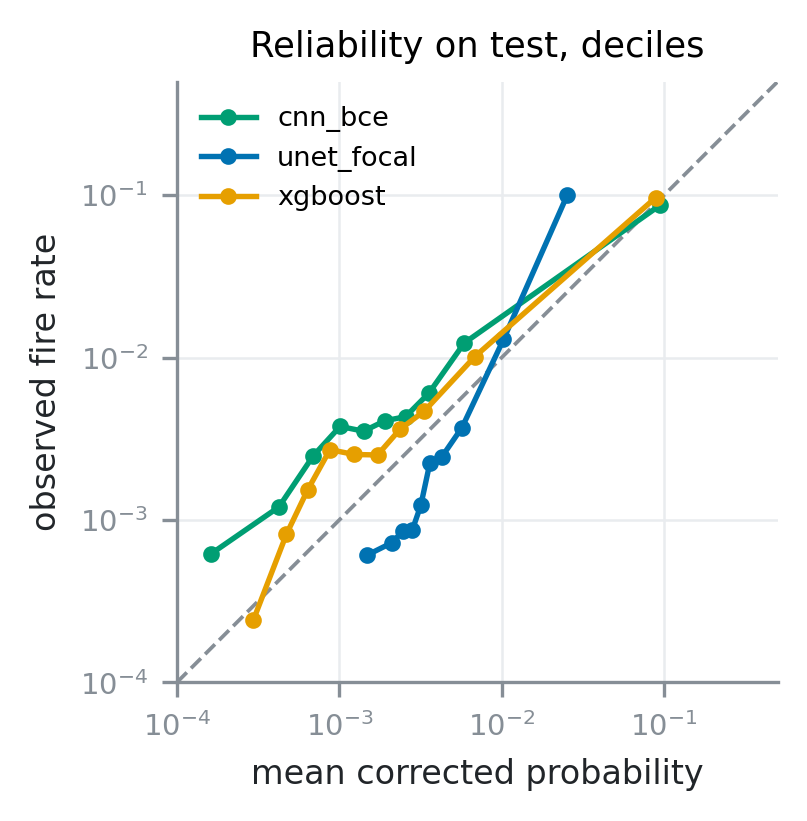
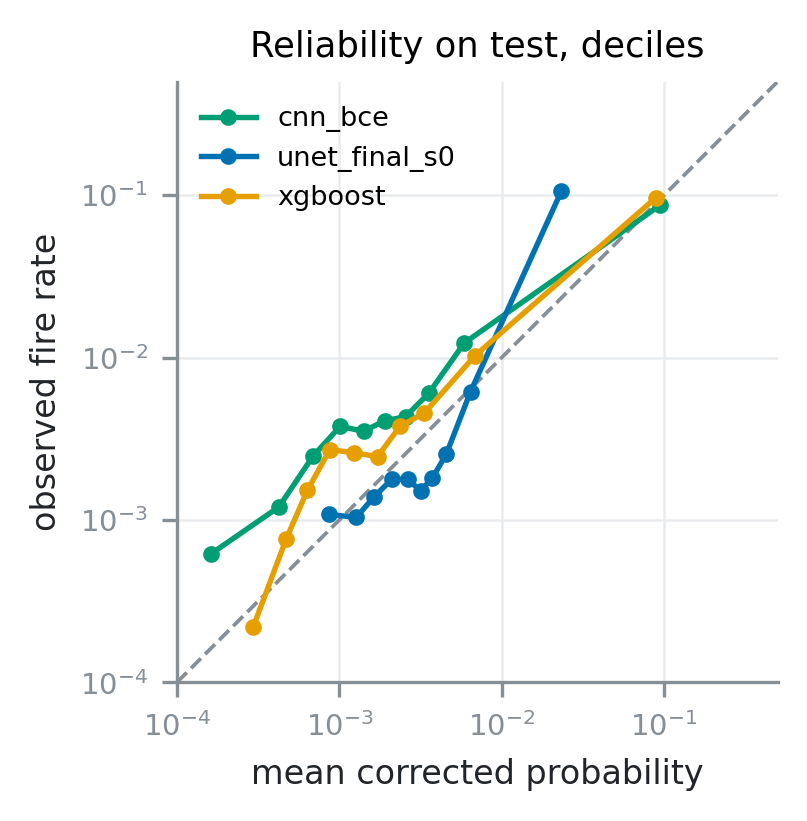
rerun the technical validation on the final depth-4 U-Net
The checks now use the final model (unet_final_s0..s2: 4 levels, width 32, focal loss):
- seeds: 0.344 +/- 0.007 test PR AUC against 0.255 +/- 0.002 for XGBoost
- paired over fire events, every seed beats XGBoost by 0.080 to 0.094, in all 1,000 resamples
- calibration: the focal U-Net is still too flat after the prior-shift correction (skill 0.05)
- location overlap: 0.335 on new locations against 0.338 overall; +0.092 over XGBoost there

dl_checks.py reads results_dl.csv as well as runs.csv and accepts _s0/_s1/_s2 seed names. The reruns and
the learning curve were not re-measured and stay on the 3-level U-Net, as the text now says. The abstract,
introduction and conclusion quoted the 3-level numbers; they now quote the final model.

diff --git a/paper/sections/dl_validation.tex b/paper/sections/dl_validation.tex
@@ -1,23 +1,25 @@
 % Technical validation of the Phase 2 models
 % Numbers come from reports/dl/checks/*.csv (python reports/dl/checks/dl_checks.py validate);
-% the runs and checks were made on one NVIDIA T4 GPU (Kaggle).
+% the final U-Net was trained on an Apple M3 GPU, the other runs and all checks on Kaggle (T4 GPU / CPU).
 
 \section{Technical Validation}
 \label{sec:dl_validation}
 
 A single test score can mislead in five ways: another seed may give a different model, the test fires may
 by chance favour one model, the probabilities may not mean what they say, the model may need more data, and
-test patches may repeat training locations. We check each of these for the final U-Net (focal loss), the CNN
-(weighted BCE) and the Phase~1 XGBoost, refitted with its committed hyperparameters to obtain its test
-predictions (PR AUC 0.2576 against the committed 0.2565, Appendix~\ref{app:checks}). All PR AUC values are on
-the official test split, with pixels labelled $-1$ excluded.
+test patches may repeat training locations. We check each of these for the final U-Net (4 levels, width 32,
+focal loss, 1.93\,M parameters, trained on an Apple M3 GPU), the CNN (weighted BCE, trained on an NVIDIA T4)
+and the Phase~1 XGBoost, refitted with its committed hyperparameters to obtain its test predictions (PR AUC
+0.2576 against the committed 0.2565, Appendix~\ref{app:checks}). All PR AUC values are on the official test
+split, with pixels labelled $-1$ excluded.
 
 \subsection{Seeds}
 
 Each model was trained with seeds 0, 1 and 2 (for XGBoost the seed sets row and column subsampling).
-Table~\ref{tab:dl_seeds} gives the mean and standard deviation. The U-Net is ahead on every metric. The two
-neural networks vary four to five times more between seeds than XGBoost (standard deviation 0.008 to 0.010
-in PR AUC against 0.002), so a single run of a network can be off by about 0.01.
+Table~\ref{tab:dl_seeds} gives the mean and standard deviation. The U-Net is ahead on every metric, by
+0.089 in PR AUC over XGBoost. The two neural networks vary three to five times more between seeds than
+XGBoost (standard deviation 0.007 to 0.010 in PR AUC against 0.002), so a single run of a network can be
+off by about 0.01.
 
 \begin{table*}[t]
 \centering
@@ -32,7 +34,7 @@ in PR AUC against 0.002), so a single run of a network can be off by about 0.01.
 \textbf{Model} & \textbf{PR AUC} & \textbf{ROC AUC} & \textbf{F1} & \textbf{R@1\%} & \textbf{R@5\%} \\
 \midrule
 \rowcolor{tblours}
-U-Net (focal) & \textbf{0.275} $\pm$ .008 & \textbf{0.923} $\pm$ .003 & \textbf{0.349} $\pm$ .006 & \textbf{0.398} $\pm$ .004 & \textbf{0.711} $\pm$ .005 \\
+U-Net (depth 4, focal) & \textbf{0.344} $\pm$ .007 & \textbf{0.935} $\pm$ .009 & \textbf{0.399} $\pm$ .003 & \textbf{0.459} $\pm$ .003 & \textbf{0.783} $\pm$ .007 \\
 CNN (BCE) & 0.249 $\pm$ .010 & 0.878 $\pm$ .011 & 0.335 $\pm$ .008 & 0.378 $\pm$ .009 & 0.653 $\pm$ .006 \\
 XGBoost & 0.255 $\pm$ .002 & 0.905 $\pm$ .001 & 0.330 $\pm$ .000 & 0.388 $\pm$ .001 & 0.673 $\pm$ .001 \\
 \bottomrule
@@ -41,7 +43,8 @@ XGBoost & 0.255 $\pm$ .002 & 0.905 $\pm$ .001 & 0.330 $\pm$ .000 & 0.388 $\pm$ .
 
 \subsection{Reproducibility}
 
-We retrained the seed-0 U-Nets and CNN a second time with the same seed, settings and GPU. No rerun
+We retrained the seed-0 U-Nets of the loss sweep (3 levels) and the CNN a second time with the same seed,
+settings and GPU. No rerun
 reproduced its predictions: the mean change per pixel was 0.03 to 0.07, the kept epoch moved by up to four
 epochs, and test PR AUC changed by $-0.022$ to $+0.013$. GPU kernels that add numbers in a varying order make
 training non-deterministic, so on a GPU the same seed does not give the same model, and here the spread of
@@ -49,15 +52,17 @@ reruns is as large as the spread of seeds. Such run-to-run variance can be as la
 methods being compared~\cite{bouthillier2021}. We therefore report means over seeds and paired
 comparisons rather than single runs. Across hardware, the same configuration agrees within this noise: the
 BCE U-Net reaches 0.269 $\pm$ 0.010 on the T4 against 0.269 for the reference run on an Apple GPU. Bit-exact
-reruns would need deterministic algorithms in PyTorch, at a cost in speed.
+reruns would need deterministic algorithms in PyTorch, at a cost in speed. All of this noise is small
+next to the gap between the final U-Net and XGBoost below.
 
 \subsection{Bootstrap confidence intervals}
 
 As in Phase~1 (Appendix~\ref{app:checks}), we resample the test set 1\,000 times~\cite{efron1979}, either by
 patch or by whole fire event (the 257 events of Section~\ref{sec:events}), and recompute PR AUC each time.
 Table~\ref{tab:dl_ci} and Fig.~\ref{fig:dl_ci} give the intervals for the seed-0 models. As in Phase~1, the
-event intervals are wide (about $\pm$0.06), because a few large fires hold most of the fire pixels, and
-those of the three models overlap.
+event intervals are wide (about $\pm$0.05 for the U-Net), because a few large fires hold most of the fire
+pixels. Even so, the U-Net's interval starts at 0.293, above the point estimates of XGBoost (0.258) and of
+the CNN autoencoder of Huot et al.\ (0.284).
 
 \begin{table}[t]
 \centering
@@ -71,9 +76,9 @@ those of the three models overlap.
 \textbf{Model} & \textbf{PR AUC} & \textbf{Patches} & \textbf{Events} \\
 \midrule
 \rowcolor{tblours}
-U-Net (focal) & 0.2694 & 0.253-0.286 & 0.211-0.329 \\
+U-Net (final) & 0.3376 & 0.321-0.355 & 0.293-0.385 \\
 CNN (BCE) & 0.2591 & 0.241-0.277 & 0.180-0.333 \\
-XGBoost & 0.2576 & 0.242-0.273 & 0.190-0.323 \\
+XGBoost & 0.2576 & 0.242-0.273 & 0.190-0.322 \\
 Persistence & 0.1065 & 0.097-0.117 & 0.059-0.161 \\
 \bottomrule
 \end{tabular}
@@ -87,13 +92,14 @@ Persistence & 0.1065 & 0.097-0.117 & 0.059-0.161 \\
 \end{figure}
 
 Paired intervals are much narrower, because both models are scored on the same resampled fires. Compared
-with XGBoost (seed 0) on the same event resamples, every U-Net seed is better: by 0.012 (0.001 to 0.025)
-for seed 0, 0.014 (0.002 to 0.028) for seed 1 and 0.027 (0.015 to 0.039) for seed 2. The CNN is not: its
-differences are $+0.001$ ($-0.011$ to 0.013), $-0.009$ ($-0.022$ to 0.005) and $-0.018$ ($-0.030$ to
-$-0.008$). The gain comes with the U-Net's architecture rather than with the loss or with neural networks as
-such: trained with the same BCE loss, the U-Net still reaches 0.269 $\pm$ 0.010 against 0.249 $\pm$ 0.010
-for the CNN. The U-Net sees a $44\times44$-pixel window around each pixel, the CNN only $9\times9$, which is
-about the local context of the Phase~1 neighbourhood features, and the CNN scores about the same as XGBoost.
+with XGBoost (seed 0) on the same event resamples, every U-Net seed is better, in all 1\,000 resamples: by
+0.080 (0.058 to 0.113) for seed 0, 0.085 (0.059 to 0.122) for seed 1 and 0.094 (0.078 to 0.118) for seed 2.
+The CNN is not: its differences are $+0.001$ ($-0.011$ to 0.013), $-0.009$ ($-0.022$ to 0.005) and $-0.018$
+($-0.030$ to $-0.008$). The gain grows with the context the network sees: the CNN's receptive field is
+$9\times9$ pixels, about the reach of the Phase~1 neighbourhood features, and it scores like XGBoost (0.249);
+the 3-level U-Net of the loss sweep sees $44\times44$ pixels (0.275 with focal loss on the T4, 0.269 with BCE, so the
+loss is not the cause); the final 4-level U-Net sees 92 to 100 pixels across, depending on the pixel's position,
+so every pixel sees the whole $64\times64$ patch, and it reaches 0.344.
 
 \subsection{Calibration}
 
@@ -116,9 +122,9 @@ the training fire rate (1.10\%).
 \rowcolor{tblhead}
 \textbf{Model} & \textbf{Raw} & \textbf{Corrected} & \textbf{BSS} & \textbf{ECE} & \textbf{Mean $p$} \\
 \midrule
-U-Net (focal) & 0.1067 & 0.0119 & 0.043 & 0.0090 & 0.0061 \\
+U-Net (final) & 0.0799 & 0.0117 & 0.052 & 0.0091 & 0.0050 \\
 CNN (BCE) & 0.0807 & 0.0104 & 0.159 & 0.0029 & 0.0113 \\
-XGBoost & 0.0856 & 0.0104 & 0.159 & 0.0019 & 0.0107 \\
+XGBoost & 0.0857 & 0.0104 & 0.159 & 0.0019 & 0.0107 \\
 \midrule
 \multicolumn{6}{l}{Always 1.10\%: Brier 0.0124; observed fire rate on test 0.0125.} \\
 \bottomrule
@@ -133,19 +139,20 @@ in each tenth of the pixels (log scales).}
 \label{fig:dl_cal}
 \end{figure}
 
-The raw scores are badly calibrated for every model, with a Brier score six to nine times worse than the
+The raw scores are badly calibrated for every model, with a Brier score six to seven times worse than the
 constant forecast. The correction fixes this for the two models trained with weighted BCE: the CNN and
 XGBoost reach a skill score of 0.16, and their top tenth of pixels predicts 9.5\% and 8.9\% fire against
 8.7\% and 9.7\% observed (Fig.~\ref{fig:dl_cal}). Focal loss breaks the correction, because its scores are
 less extreme (Section~\ref{sec:dl_loss}; see also~\cite{mukhoti2020}). After the correction, the U-Net's
-probabilities are too flat: 0.15\% in the lowest tenth against 0.06\% observed, and 2.5\% in the top tenth
-against 10.0\% observed, for a skill score of only 0.04. Its ranking, and so its PR AUC, is unaffected. If
+probabilities are too flat: close in the lowest tenth (0.09\% against 0.11\% observed), but 2.3\% in the top
+tenth against 10.6\% observed, for a skill score of only 0.05. Its ranking, and so its PR AUC, is unaffected. If
 the U-Net's probabilities are to be read as fire risk, they need a recalibration fitted on eval, such as
 Platt scaling.
 
 \subsection{Learning curve}
 
-We trained the focal U-Net (seed 0) on 5, 10, 25 and 50\% of the training patches. Each run had the same
+We trained the 3-level focal U-Net of the loss sweep (seed 0) on 5, 10, 25 and 50\% of the training patches;
+the final 4-level model was not re-measured. Each run had the same
 budget of gradient steps and the same patience in steps as the full run (at most $30/f$ epochs, patience
 $5/f$, for a share $f$). Unlike XGBoost, whose eval PR AUC stays between 0.204 and 0.207 from 5 to 100\% of
 the data (Section~\ref{sec:theory_bv}), the U-Net uses more data (Fig.~\ref{fig:dl_lc}): its eval PR AUC
@@ -157,8 +164,8 @@ more data of the same kind adds little.
 \begin{figure}[t]
 \centering
 \includegraphics[width=0.75\columnwidth]{dl/figures/dl_learning_curve.png}
-\caption{Eval PR AUC against the share of training patches: focal U-Net (one run per share) and the Phase~1
-XGBoost.}
+\caption{Eval PR AUC against the share of training patches: 3-level focal U-Net (one run per share) and the
+Phase~1 XGBoost.}
 \label{fig:dl_lc}
 \end{figure}
 
@@ -166,9 +173,11 @@ XGBoost.}
 
 503 of the 1\,689 test patches (30\%) cover exactly the same location as a training patch
 (Section~\ref{sec:method}). Scored separately (Table~\ref{tab:dl_overlap}), these seen locations are easier
-for every model, persistence included. On the 1\,186 new locations alone, the U-Net still beats XGBoost by
-0.013 (0.004 to 0.026, paired over fire events), while the CNN and XGBoost remain level ($+0.001$, from
-$-0.014$ to 0.013). The U-Net's lead is therefore not a product of locations it has seen before.
+for every model, persistence included, but the U-Net depends on them least: it scores 0.335 on new
+locations against 0.338 overall, while XGBoost drops from 0.258 to 0.243. On the 1\,186 new locations
+alone, the U-Net beats XGBoost by 0.092 (0.074 to 0.123, paired over fire events), while the CNN and XGBoost
+remain level ($+0.000$, from $-0.014$ to 0.013). The U-Net's lead is therefore not a product of locations it
+has seen before.
 
 \begin{table}[t]
 \centering
@@ -182,18 +191,20 @@ $-0.014$ to 0.013). The U-Net's lead is therefore not a product of locations it 
 \textbf{Model} & \textbf{All (1\,689)} & \textbf{New (1\,186)} & \textbf{Seen (503)} \\
 \midrule
 \rowcolor{tblours}
-U-Net (focal) & 0.269 & 0.255 & 0.335 \\
+U-Net (final) & 0.338 & 0.335 & 0.353 \\
 CNN (BCE) & 0.259 & 0.243 & 0.330 \\
-XGBoost & 0.258 & 0.242 & 0.324 \\
+XGBoost & 0.258 & 0.243 & 0.323 \\
 Persistence & 0.107 & 0.097 & 0.151 \\
 \bottomrule
 \end{tabular}
 \end{table}
 
 \begin{projectbox}
-What the checks support: the U-Net with focal loss is the best model. Its lead over XGBoost, 0.01 to 0.03 in
-PR AUC, holds for each of three seeds when both are scored on the same fires, and for seed 0 also on
-unseen locations. The CNN is level with XGBoost. Network training on a GPU is not reproducible run by run, so
-results are means over seeds. After the closed-form correction, the probabilities of the weighted-BCE models
-are close to real risk; those of the focal U-Net need a recalibration before they are used as risk.
+What the checks support: the final 4-level U-Net with focal loss is the best model, at 0.344 $\pm$ 0.007.
+Its lead over XGBoost, 0.08 to 0.09 in PR AUC, holds for each of three seeds when both are scored on the same
+fires, in every resample, and for seed 0 also on unseen locations. The gain grows with the context the
+network sees, and the CNN, which sees only a local window, is level with XGBoost. Network training on a GPU
+is not reproducible run by run, so results are means over seeds. After the closed-form correction, the
+probabilities of the weighted-BCE models are close to real risk; those of the focal U-Net need a
+recalibration before they are used as risk.
 \end{projectbox}

diff --git a/reports/dl/checks/dl_checks.py b/reports/dl/checks/dl_checks.py
@@ -52,8 +52,10 @@ def load_pred(name):
 
 
 def results():
-    path = CHECKS / "runs.csv" if (CHECKS / "runs.csv").exists() else DL / "results_dl.csv"
-    return pd.read_csv(path).set_index("model")
+    """Test metrics of every run: runs.csv (my runs) plus results_dl.csv (all team runs)."""
+    tables = [pd.read_csv(f) for f in (CHECKS / "runs.csv", DL / "results_dl.csv") if f.exists()]
+    res = pd.concat(tables).drop_duplicates("model").set_index("model")
+    return res
 
 
 def read_log(path):
@@ -203,7 +205,9 @@ def plt_setup():
 
 
 def seed_names(base):
-    return [base, f"{base}_s1", f"{base}_s2"]
+    """Seeds 0, 1, 2 of a run: base, base_s1, base_s2, or for names ending in _s0: stem_s0, stem_s1, stem_s2."""
+    stem = base[:-3] if base.endswith("_s0") else base
+    return [base, f"{stem}_s1", f"{stem}_s2"]
 
 
 # ---------------------------------------------------------------------------------------------
@@ -284,7 +288,7 @@ def seeds_table(families):
         if len(names) < 2:
             continue
         sub = res.loc[names, METRICS]
-        rows.append({"model": fam, "n_seeds": len(names),
+        rows.append({"model": fam[:-3] if fam.endswith("_s0") else fam, "n_seeds": len(names),
                      **{f"{m}_mean": sub[m].mean() for m in METRICS}, **{f"{m}_std": sub[m].std() for m in METRICS}})
     return pd.DataFrame(rows)
 
@@ -459,7 +463,8 @@ def plot_validation(final):
     if (CHECKS / "learning_curve.csv").exists():
         lc = pd.read_csv(CHECKS / "learning_curve.csv")
         fig, ax = plt.subplots(figsize=(3.2, 2.3))
-        ax.plot(lc.share, lc.eval_pr_auc, "-o", ms=3.5, lw=1.5, color=COLORS["unet"], label=final[0])
+        run = re.sub(r"_frac\d+$", "", lc.run.iloc[0])  # the model the curve was measured on
+        ax.plot(lc.share, lc.eval_pr_auc, "-o", ms=3.5, lw=1.5, color=COLORS["unet"], label=run)
         p1 = ROOT / "reports" / "checks" / "learning_curve.csv"
         if p1.exists():
             x = pd.read_csv(p1)
@@ -499,7 +504,7 @@ if __name__ == "__main__":
     p = argparse.ArgumentParser()
     p.add_argument("check", choices=["selfcheck", "sweep", "validate", "plots"])
     p.add_argument("--logs", default=str(CHECKS / "logs"), help="folder with train_dl logs ({name}.log)")
-    p.add_argument("--final", nargs="+", default=["unet_focal", "cnn_bce"], help="seed-0 runs of the final models")
+    p.add_argument("--final", nargs="+", default=["unet_final_s0", "cnn_bce"], help="seed-0 runs of the final models")
     a = p.parse_args()
     if a.check == "selfcheck":
         selfcheck()

diff --git a/paper/sections/introduction.tex b/paper/sections/introduction.tex
@@ -31,10 +31,10 @@ reaches a test PR AUC of 0.257 against 0.106 for persistence.
 The errors of this model point to what a per-pixel design cannot see: the shape of the fire front and
 spread beyond a fixed radius. In Phase~2 we therefore train models on the whole patch
 (Fig.~\ref{fig:dl_arch}): a small CNN that sees $9\times9$\,km around each pixel and a U-Net~\cite{ronneberger2015}
-that sees $44\times44$\,km. We choose the training loss and test data augmentation in controlled
-comparisons over three seeds, and check the result for seed and rerun noise, calibration, data size and
-location overlap. The U-Net with focal loss reaches a test PR AUC of 0.275 $\pm$ 0.008, ahead of XGBoost
-for every seed when both are scored on the same fires.
+whose final 4-level version sees the whole patch. We choose the training loss and test data augmentation in
+controlled comparisons over three seeds, and check the result for seed and rerun noise, calibration, data
+size and location overlap. The final U-Net with focal loss reaches a test PR AUC of 0.344 $\pm$ 0.007, ahead
+of XGBoost for every seed when both are scored on the same fires.
 
 \begin{figure*}[t]
 \centering
@@ -65,7 +65,7 @@ Our contributions are:
   false alarms around dying fires;
 \item data findings that matter for any model on this dataset: the patches are stored south-up,
   the raw export contains impossible values, and the test split contains duplicate patches;
-\item a U-Net with focal loss that beats the tuned XGBoost (0.275 $\pm$ 0.008 against 0.255 $\pm$ 0.002
+\item a U-Net with focal loss that beats the tuned XGBoost (0.344 $\pm$ 0.007 against 0.255 $\pm$ 0.002
   over three seeds), with the gain coming from spatial context rather than from the loss;
 \item controlled comparisons showing that the loss and data augmentation matter far less than seed and
   rerun noise: flips and rotations, with the wind direction turned to match the south-up grid, bring no

diff --git a/paper/sections/conclusion.tex b/paper/sections/conclusion.tex
@@ -24,10 +24,10 @@ sees the patch only through fixed-radius summaries.
 Finally, we found that the patches are stored south-up, which the dataset does not state. Every
 direction-dependent feature, such as fire upwind, depends on this orientation.
 
-Phase~2 confirms that the missing ingredient was spatial context. A U-Net that sees $44\times44$\,km
-reaches a test PR AUC of 0.275 $\pm$ 0.008 over three seeds against 0.255 $\pm$ 0.002 for XGBoost, and
-it is ahead for every seed when both are scored on the same fires, by 0.012 to 0.027. A CNN that sees only
-$9\times9$\,km, about the reach of our neighbourhood features, ties XGBoost. Unlike XGBoost, the U-Net
+Phase~2 confirms that the missing ingredient was spatial context. The final 4-level U-Net, which sees the
+whole patch, reaches a test PR AUC of 0.344 $\pm$ 0.007 over three seeds against 0.255 $\pm$ 0.002 for
+XGBoost, and it is ahead for every seed when both are scored on the same fires, by 0.080 to 0.094. A CNN that
+sees only $9\times9$\,km, about the reach of our neighbourhood features, ties XGBoost. Unlike XGBoost, the U-Net
 also uses more training data, up to about half of the training set.
 
 The smaller choices matter much less. Focal loss beats weighted BCE by about 0.007, and none of the flips

diff --git a/paper/main.tex b/paper/main.tex
@@ -66,8 +66,8 @@ dataset authors report 0.225 for a random forest and 0.284 for a CNN, from a dif
 so these are reference points rather than a controlled comparison. Ablation and learning curves show that the
 spatial features carry the signal: tuning changes the score by only about 0.01, and 20 times less training
 data barely changes it. The model finds fire near the
-existing front but misses spread beyond 5\,km. In Phase~2, a U-Net trained on whole patches with focal loss
-reaches 0.275 $\pm$ 0.008 over three seeds and beats XGBoost for every seed on the same fires; loss
+existing front but misses spread beyond 5\,km. In Phase~2, a 4-level U-Net trained on whole patches with focal
+loss reaches 0.344 $\pm$ 0.007 over three seeds and beats XGBoost for every seed on the same fires; loss
 choice and data augmentation change the score less than seed and rerun noise.
 
 \noindent\textit{Index terms:} wildfire spread, remote sensing, gradient boosting, class imbalance,
